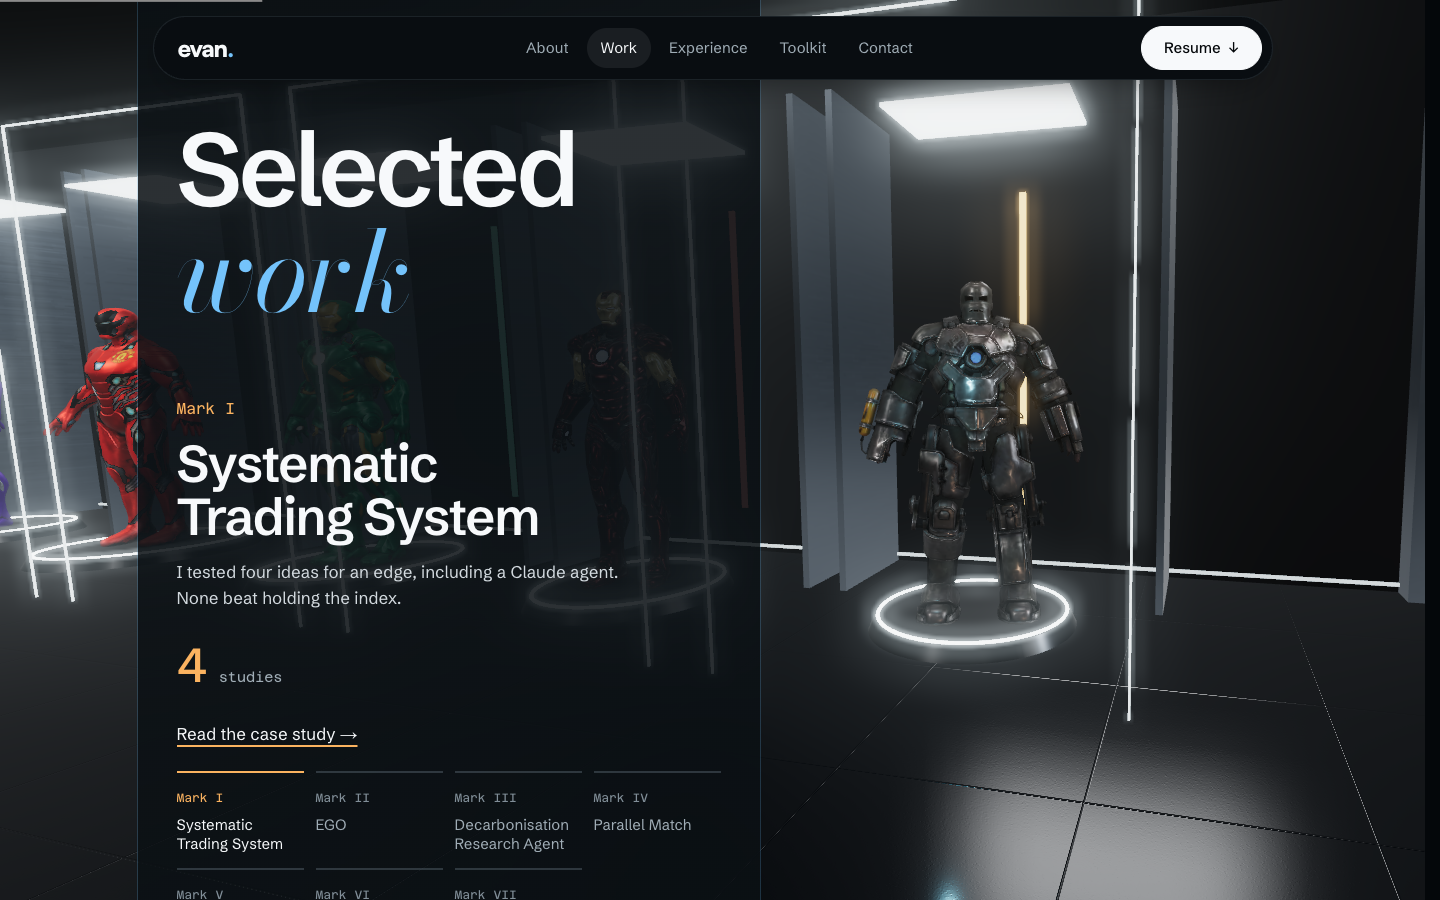
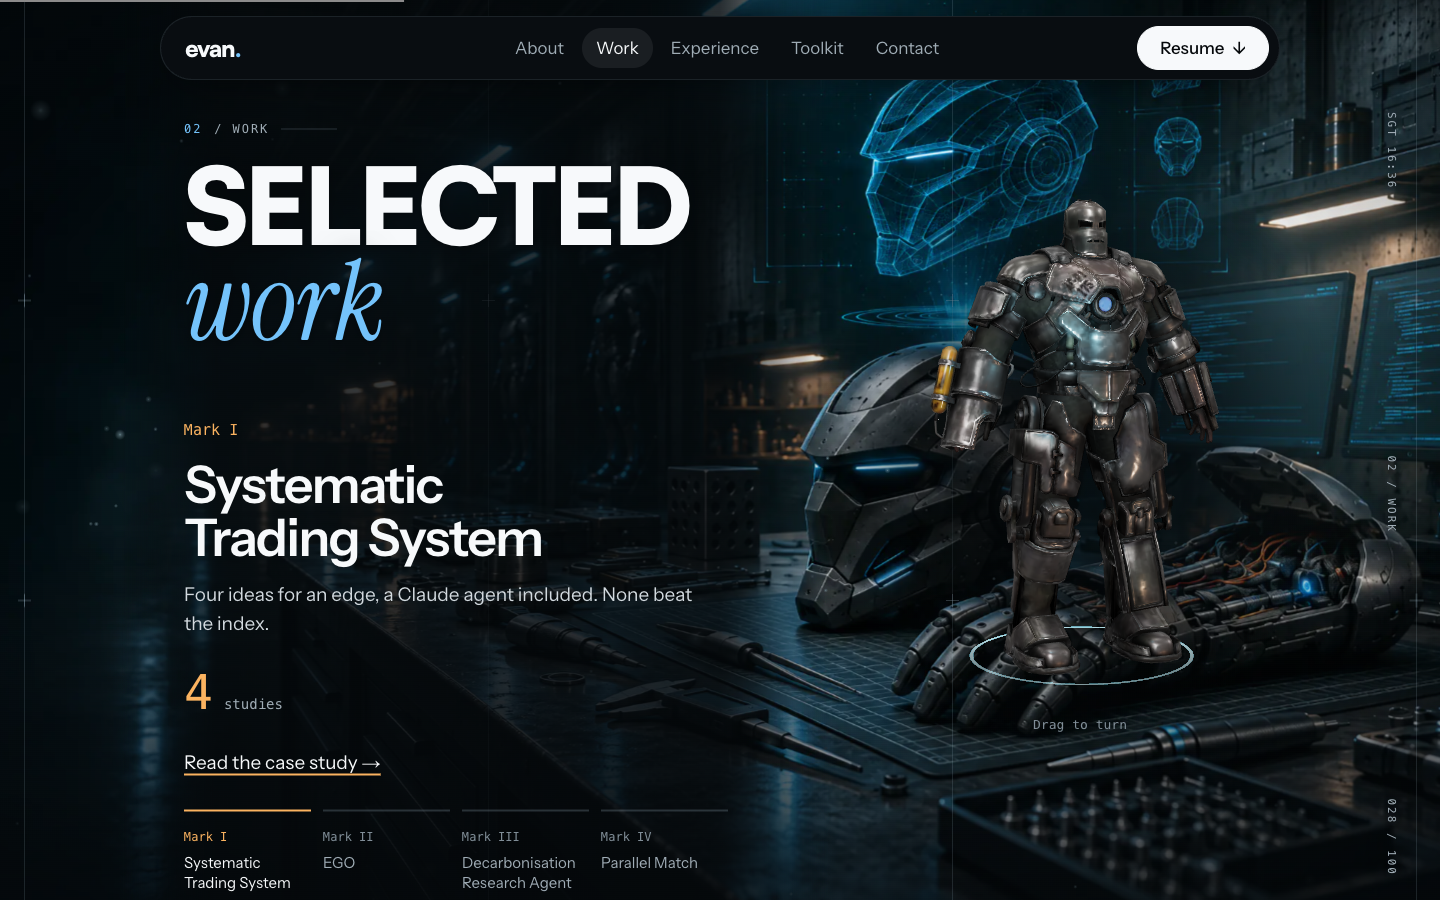
docs: the workshop scene and the suits, with new screenshots

diff --git a/README.md b/README.md
@@ -2,21 +2,21 @@
 
 **Live:** <https://www.evanyap.com>
 
-The page is **Tony Stark's lab**. One fixed three.js canvas holds the whole room, and scrolling moves a camera along a rail through the sections (Intro, About, Experience, Selected work, Toolkit, Contact), with a page for each project. Plain HTML, CSS and JavaScript as ES modules: no framework and no build step. The only npm packages are dev tools for the checks. three.js and the fonts load from CDNs. Where WebGL2 is missing, or Reduce Motion is on, the same content shows as an ordinary page.
+The page is **Tony Stark's workshop**. A photograph of the room sits behind the whole page, one shot per section (Intro, About, Selected work, Experience, Toolkit, Contact), and scrolling brings each shot up over the last. The shots lean away from the pointer, a light follows it, and dust hangs in the air and parts round it. There is a page for each project. Plain HTML, CSS and JavaScript as ES modules: no framework and no build step. The only npm packages are dev tools for the checks. three.js and the fonts load from CDNs. With Reduce Motion on, the scene stays but holds still.
 
-![The lab's vault door opening onto Tony Stark's workshop, with a hologram of Evan inside](docs/hero.png)
+![The hero: a corridor of armour bays in the workshop, with Evan's name and headline over it](docs/hero.png)
 
-![The Hall of Armor: a suit in its bay, with the project beside it and the other six suits to pick from](docs/hall.png)
+![The Hall of Armor: a suit standing in the workshop, with its project beside it and the other suits to pick from](docs/hall.png)
 
 ## Highlights
 
-- **A lab you scroll through.** The camera flies a rail through the room. The reactor on the first screen is the door: a first visit finds it shut ("Systems offline"). Press and hold the reactor (or hold Space on it) and it charges; at 100% it fires a pulse and the door opens. It never opens by itself, so the resume and email stay reachable throughout.
+- **A workshop you scroll through.** Each section has its own photograph of the room, which pushes in slowly as the section passes; the hero's is a looping clip. The reactor on the first screen is the door: a first visit finds the room dark ("Systems offline"). Press and hold the reactor (or hold Space on it) and it charges; at 100% it fires a pulse and the room comes up. It never opens by itself, so the resume and email stay reachable throughout.
+- **A room that answers the pointer.** The shot leans away from it, a light follows it, the dust parts round it, and on About each hobby in the list lights its object in the photograph.
 - **Interactive 3D arc reactor** in three.js: powers on with a pulse, hold to charge, drag to spin, highlights follow the pointer.
-- **The Hall of Armor.** Selected work stands in the lab as seven Iron Man suits, each fully lit and drag-to-turn, with its own readouts and the project it stands for. On a phone the whole suit is framed under the nav.
-- **A trophy shelf you can click all the way down Experience.** Fourteen objects (roles, awards, the scholarship) each open a card. On a wide screen the shelf stays clickable down the whole section, and hovering an object selects its row on the page and the other way round. On a phone it pins as a strip at the top while Experience scrolls under it, and the entry being read lights its trophy.
+- **The Hall of Armor.** Selected work is seven Iron Man suits, each a 3D model you drag to turn, standing in the workshop beside the project it stands for.
 - **Looping project diagrams** drawn as inline SVG, played only while on screen, each with a pause button.
 - **Motion with restraint.** Word-by-word title reveals, counting figures, scroll-drawn timeline, cross-page view transitions. With Reduce Motion on, nothing moves.
-- **Tested in the browser.** [`/tests/`](tests/) loads the site at 13 sizes (320px to 1920px) and runs about 7,000 checks: section order, heading levels, no sideways scroll, 44px tap targets, WCAG contrast, focus rings, keyboard paths, the gate, and the lab's camera, suits and shelf.
+- **Tested in the browser.** [`/tests/`](tests/) loads the site at 13 sizes (320px to 1920px) and runs about 6,500 checks: section order, heading levels, no sideways scroll, 44px tap targets, WCAG contrast, focus rings, keyboard paths, the gate, the scene and the suits.
 
 ## How it was built
 
@@ -29,8 +29,8 @@ Scripts are ES modules, so serve over HTTP:
 ```sh
 python3 tests/serve.py 4173      # then open http://localhost:4173 (and /tests/ for the checks)
 npm install                      # once: installs the git hooks and the browser-check runner
-npm run check                    # JavaScript syntax and the lab's unit tests, fast
-npm run check:browser            # the full headless-Chrome suite, about 9 minutes
+npm run check                    # JavaScript syntax, fast
+npm run check:browser            # the full headless-Chrome suite, about 8 minutes
 ```
 
 ## Where things are
@@ -41,7 +41,7 @@ npm run check:browser            # the full headless-Chrome suite, about 9 minut
 | `work/`, `case-studies/` | One page per project, and the trading agent case study |
 | `css/` | `base.css` (tokens), `layout.css`, `home.css`, `project.css`, `figures.css`, `reactor.css` |
 | `js/` | `main.js` starts everything; `reactor*.js` the hero's 3D model; `gate.js`, `motion.js`, `reel.js` + `scenes.js` (diagram player) |
-| `js/lab.js`, `js/lab/` | The lab: the camera rail, room, props, suits, hologram, door and clickable spots |
+| `js/lab.js`, `js/motes.js`, `img/scene/` | The scene: a shot per section, the pointer's lean and light, the dust, About's spots, and the door |
 | `js/hall*.js`, `models/hall/` | The Hall of Armor: the suit picker, its stage and the suit models |
 | `img/`, `resume/` | Icons, logos, share image, resume PDF |
 

diff --git a/CLAUDE.md b/CLAUDE.md
@@ -4,8 +4,8 @@
 Before saying a task is done, or committing, run `npm run check` (JS syntax for `js/`, `tests/`) and
 read its output. If it fails, fix the cause; never skip hooks (`--no-verify`). Report the actual result.
 
-For changes to behaviour or layout also run `npm run check:browser` (headless Chrome, 7001 checks,
-about 8.5 minutes). It is not in the pre-commit hook because of its runtime. CI runs it too, but as
+For changes to behaviour or layout also run `npm run check:browser` (headless Chrome, about 6,500 checks,
+about 8 minutes). It is not in the pre-commit hook because of its runtime. CI runs it too, but as
 report-only (`continue-on-error`), so a green CI run does not mean it passed: read the step's log, and
 run it locally before saying a behaviour or layout change is done. Its failures were once random
 under load (a dropped script request); if a check fails, read the "failed requests" lines it prints
